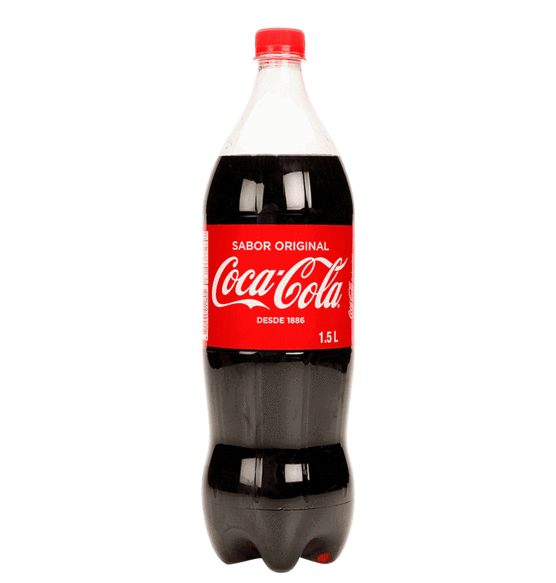
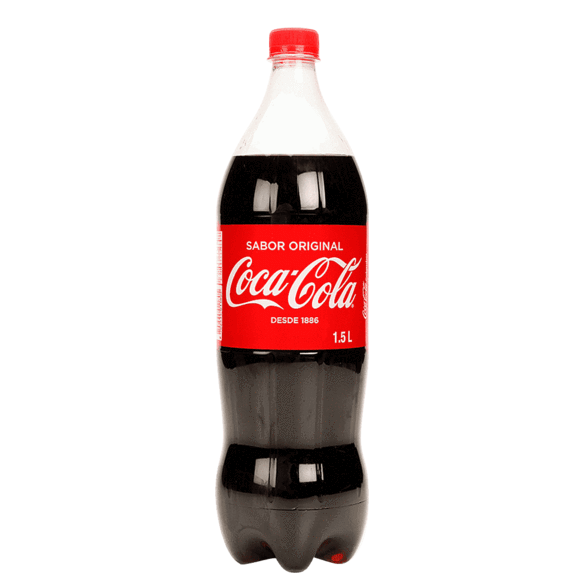
cambio proporciones de imagenes + cambio text description empanadas

diff --git a/index.html b/index.html
@@ -84,7 +84,7 @@
           <div class="card-item swiper-slide">
             <img src="img/Emp.png" alt="Empanadas">
             <h2 class="name">Empanadas</h2>
-            <p class="description">Empanadas por docena o 1/2 docena</p>
+            <p class="description description-empanadas">Empanadas por docena o 1/2 docena</p>
           </div>
         </div>
 

diff --git a/css/style.css b/css/style.css
@@ -142,6 +142,11 @@ html {
   color: var(--blue);
 }
 
+.card-list .card-item .description-empanadas {
+  font-size: 1rem;
+}
+
+
 /* HAMBURGER MENU */
 
 #hamburger-nav {
